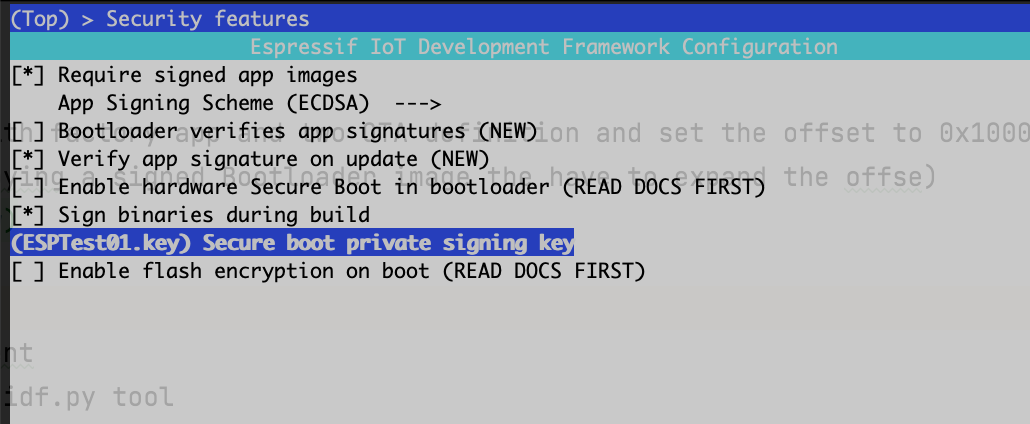
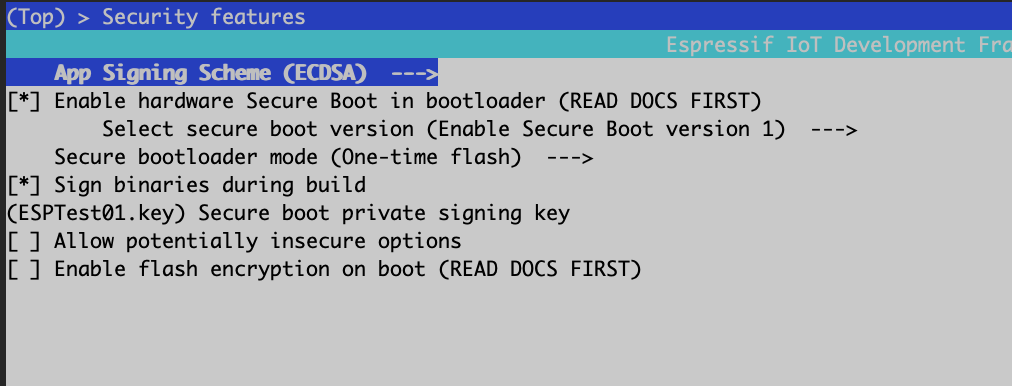
Readme update

Changed region(s): [[0.0, 0.0, 1.0, 1.0], [0.1225, 0.9016, 0.1532, 0.9637]]

diff --git a/README.md b/README.md
@@ -1,4 +1,4 @@
-# IoT Device Security in der Praxis
+# IoT Device Security in practice
 Enabling security features for IoT devices, especially when you want to take advantage of the microcontroller's built-in functions
 and features of the microcontroller, can be challenging. This project will help you understand the built-in security feature 
 of an ESP32 MCU and provide you with tools and mechanisms to enable these functions at scale.
@@ -89,17 +89,27 @@ configure the partition Table, with factory app and two OTA definition and set t
 ![](/resources/PartitionTable.png)
 
 next we have to activate the security Feature by: 
-* enable signed app image with Signing Schema ECDSA
+* enable hardware Secure Boot in bootloader
+  * please select secure Boot version 1
 * change file at "signe binaries durign build " to ESPTest01.key
   * To get the signing Key follow the instruction at [Instruction how to get the Key](#getSigningKey)
 ![](/resources/SecurityFeature.png)
-
 
 next we configure the OTA Download Server url: https://trust-point.com/resources/OTA/OTABasic.bin
 ![](/resources/DownloadServer.png)
 
 
 ### <a name="onboarding"></a>onboarding to you Network
+To onboard your ESP32 board to your prefered wifi we are providing an auto-onboarding tool.
+
+Note: This process is only activated since no SSID and PW is stored in the ESP flash. If crendential s
+are found in the falsh memory the esp is booting directly into the active app.
+
+Please connect your ESP Board with the USB cable to your port.
+The ESP Board will open a wifi called esp32. Please connect. 
+The Wifi manager will auto launch: 
+
+
 * Connect your ESP Board 
 * Launch the Onboarding Application
 * configure your Network 
